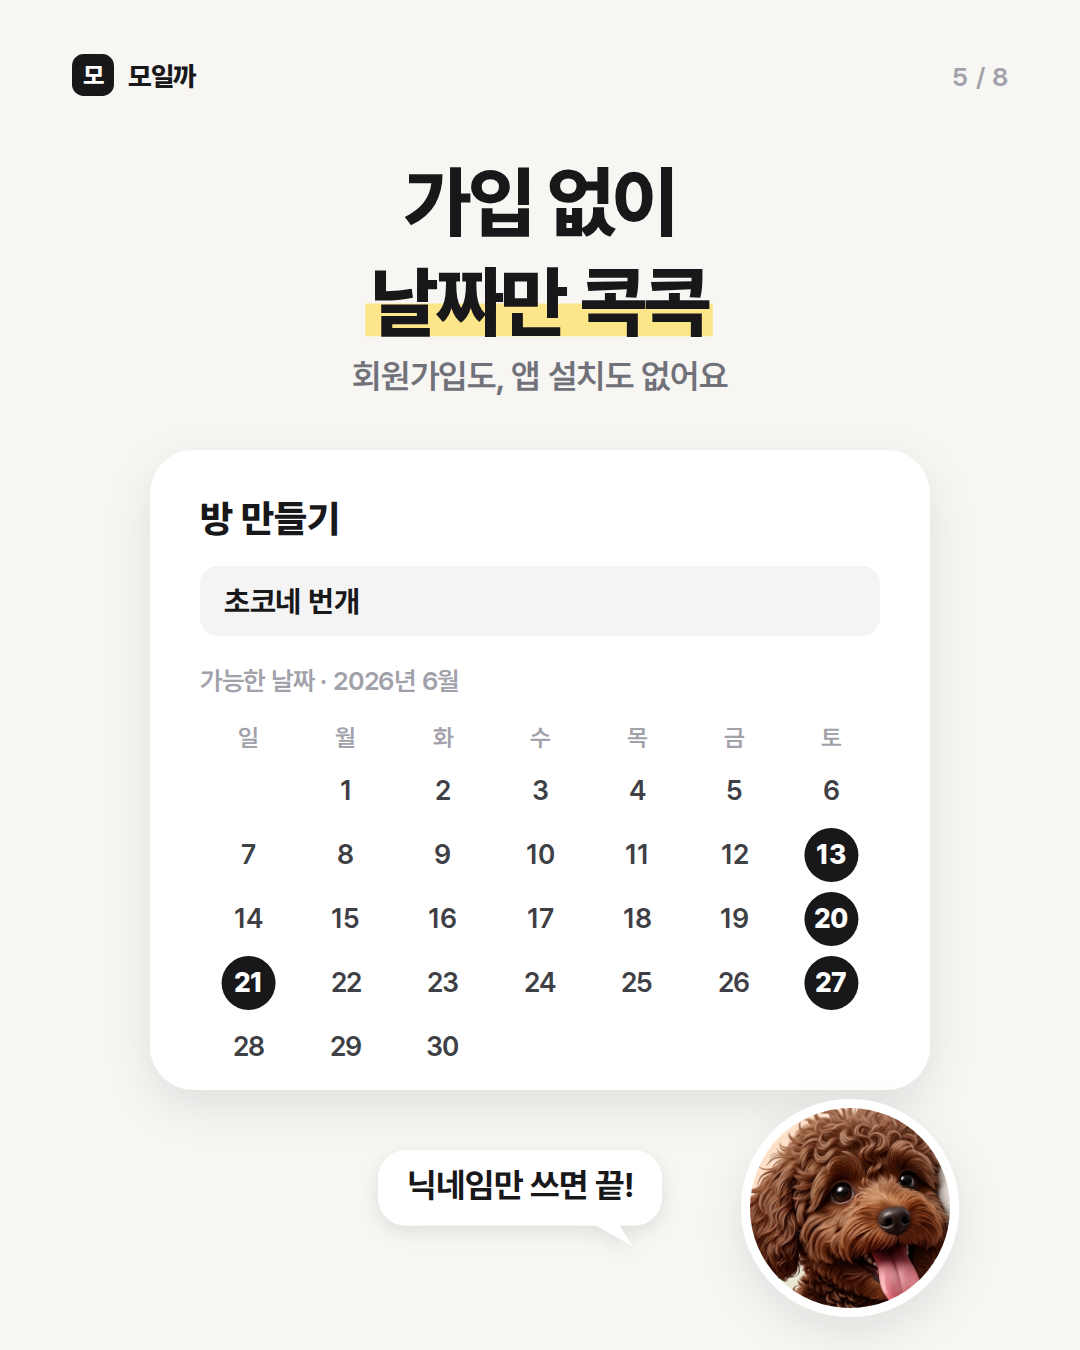
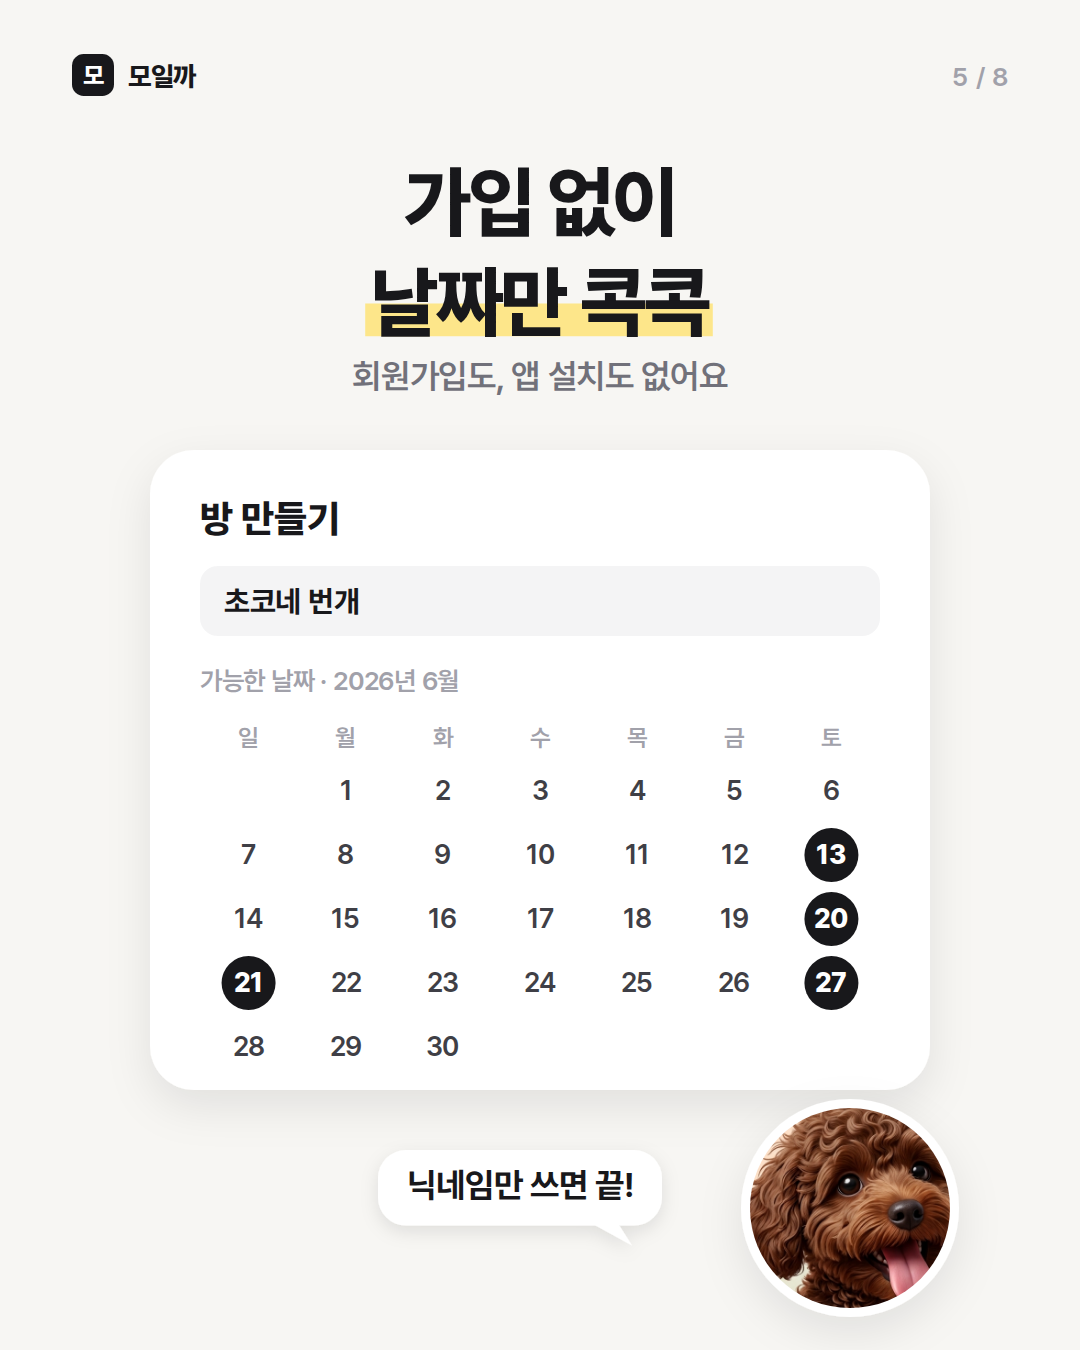
컷툰 6장 — 말풍선 넘침·얼굴 크롭 수정
채팅 카드를 늘려 '체크 완료!' 말풍선이 카드 밖으로 나가지 않게 하고,
얼굴 원형 크롭을 다시 잡아 밀크 사진에 초코 털이 섞이지 않게 한다.

Claude-Session: https://claude.ai/code/session_01CKkU2Ec6NKqxHL39zMMfNL

Changed region(s): [[0.6722, 0.8089, 0.8861, 0.9644]]

diff --git a/scripts/promo/cuttoon/cuttoon.html b/scripts/promo/cuttoon/cuttoon.html
@@ -90,7 +90,7 @@ function petsOnCard(cardY, cardH, pw, inner = '') {
 const counter = (x, y, w, h, inner = '') =>
   `<path d="M${x} ${y} H${x + w} V${y + h - 44} Q${x + w} ${y + h} ${x + w - 44} ${y + h} H${x + 44} Q${x} ${y + h} ${x} ${y + h - 44}Z" fill="${C.white}" filter="url(#sh)"/>` + inner;
 // 한 마리 얼굴 크롭 (원본 좌표의 중심·반지름)
-const FACE = { choco: [318, 410, 235], milk: [700, 380, 215] };
+const FACE = { choco: [300, 425, 218], milk: [736, 392, 178] }; // 서로의 털이 원 안에 안 들어오게
 function faceImg(who, cx, cy, r) {
   const id = 'pf' + (PID++), [fx, fy, fr] = FACE[who], k = r / fr;
   return `<clipPath id="${id}"><circle cx="${cx}" cy="${cy}" r="${r}"/></clipPath><g clip-path="url(#${id})"><image href="${IMG}" x="${cx - fx * k}" y="${cy - fy * k}" width="${1024 * k}" height="${1024 * k}"/></g>`;
@@ -206,7 +206,7 @@ S.push(() => {
   let s = chrome(6);
   s += headline(['단톡방에 링크', '[하나면 끝]'], 230);
   s += sub(388, '카톡용 문구까지 알아서 만들어 줘요');
-  const x = 150, y = 450, w = 780, h = 610;
+  const x = 150, y = 450, w = 780, h = 690;
   let in_ = T(x + 44, y + 76, '고딩 친구들', { size: 34, weight: 800 }) + `<path d="M${x} ${y + 112} H${x + w}" stroke="${C.z100}" stroke-width="3"/>`;
   const lw = 520, lx = x + w - 44 - lw, ly = y + 146, lh = 236;
   in_ += `<rect x="${lx}" y="${ly}" width="${lw}" height="${lh}" rx="28" fill="${C.ink}"/>` + calIcon(lx + 30, ly + 30, 36, C.white);
@@ -218,8 +218,8 @@ S.push(() => {
   let r = msgL(x + 44, yy, 'kong', '오 편하다'); in_ += r.svg; yy += r.h + 22;
   r = msgL(x + 44, yy, 'dubu', '체크 완료!'); in_ += r.svg;
   s += card(x, y, w, h, in_);
-  s += photoFace('milk', 850, 1208, 100);
-  s += say(520, 1150, ['(몰래) 나도 체크함'], 'dr', { size: 30 });
+  s += photoFace('milk', 860, 1238, 84);
+  s += say(560, 1200, ['(몰래) 나도 체크함'], 'dr', { size: 30 });
   return s;
 });
 
